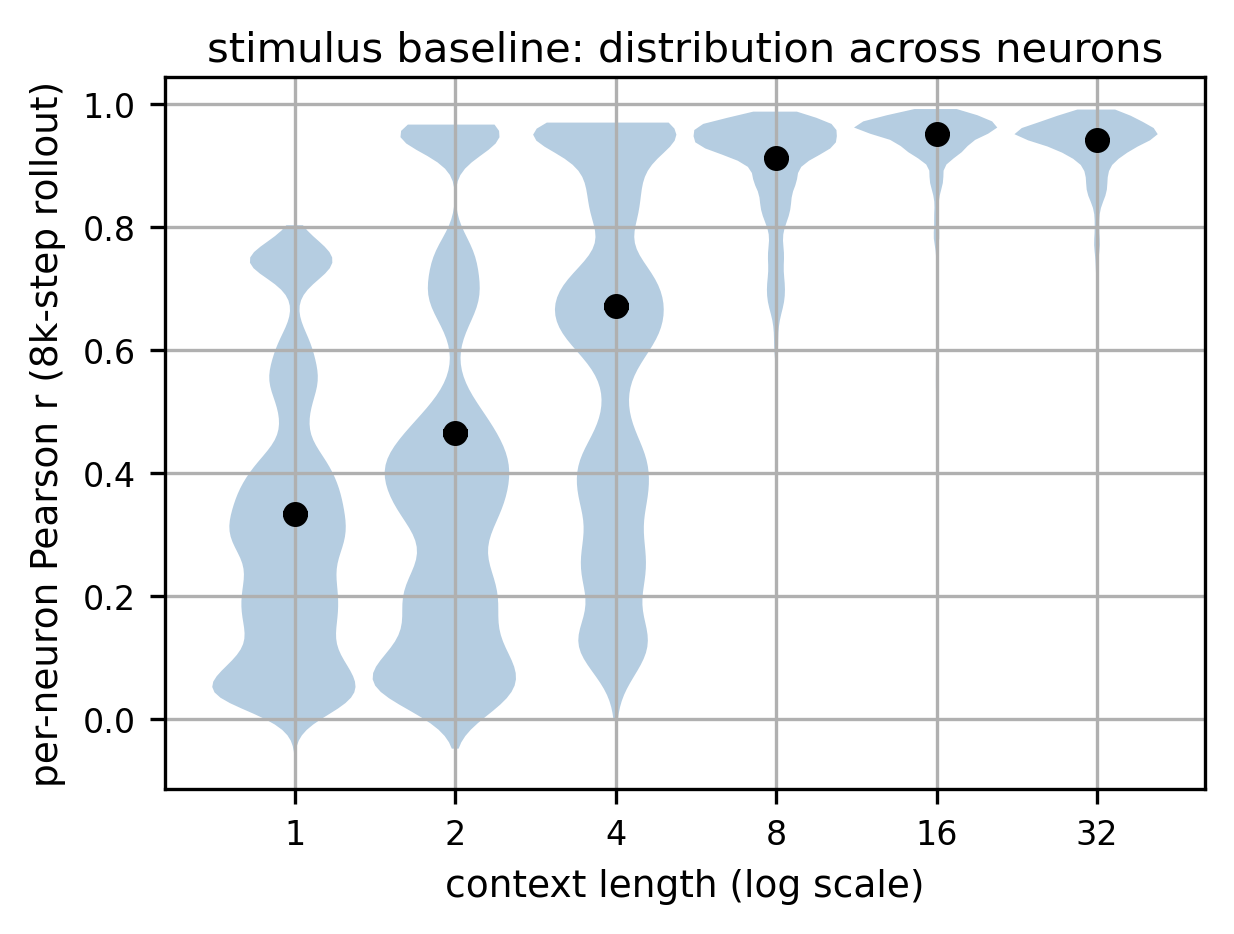
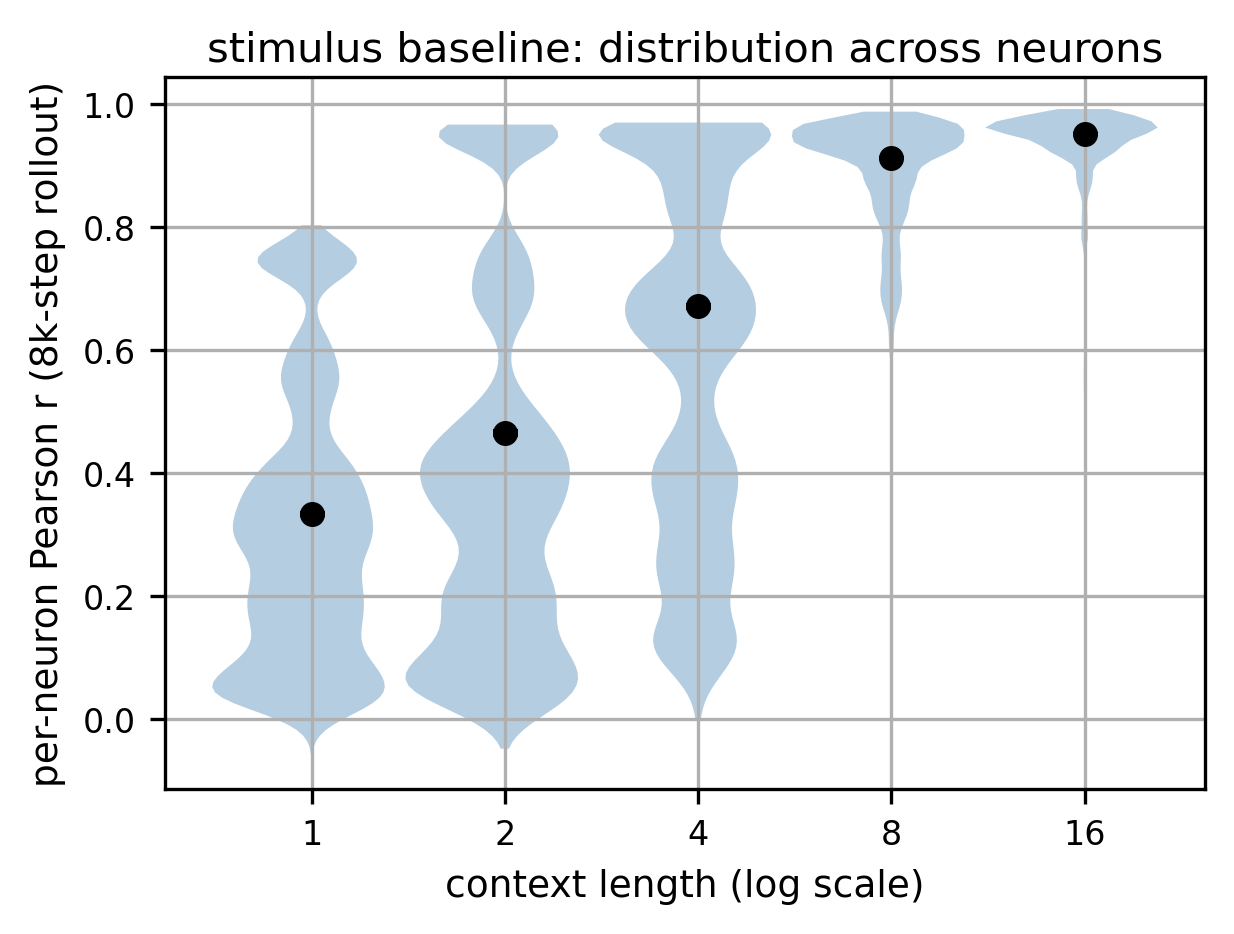
plot: drop ctx=32 since it is undertrained

diff --git a/figures/fig_stimulus_ctx_rollout_pearson.py b/figures/fig_stimulus_ctx_rollout_pearson.py
@@ -27,7 +27,7 @@ from connectome_gnn.config import NeuralGraphConfig
 from connectome_gnn.models.registry import create_model
 
 
-CTXS = [1, 2, 4, 8, 16, 32]
+CTXS = [1, 2, 4, 8, 16]
 CV_IDS = ['00', '01', '02', '03', '04']
 LOG_ROOT = Path('/groups/saalfeld/home/kumarv4/repos/connectome-gnn/log/fly')
 CV_ROOT = Path('/groups/saalfeld/home/allierc/GraphData/graphs_data/fly')
